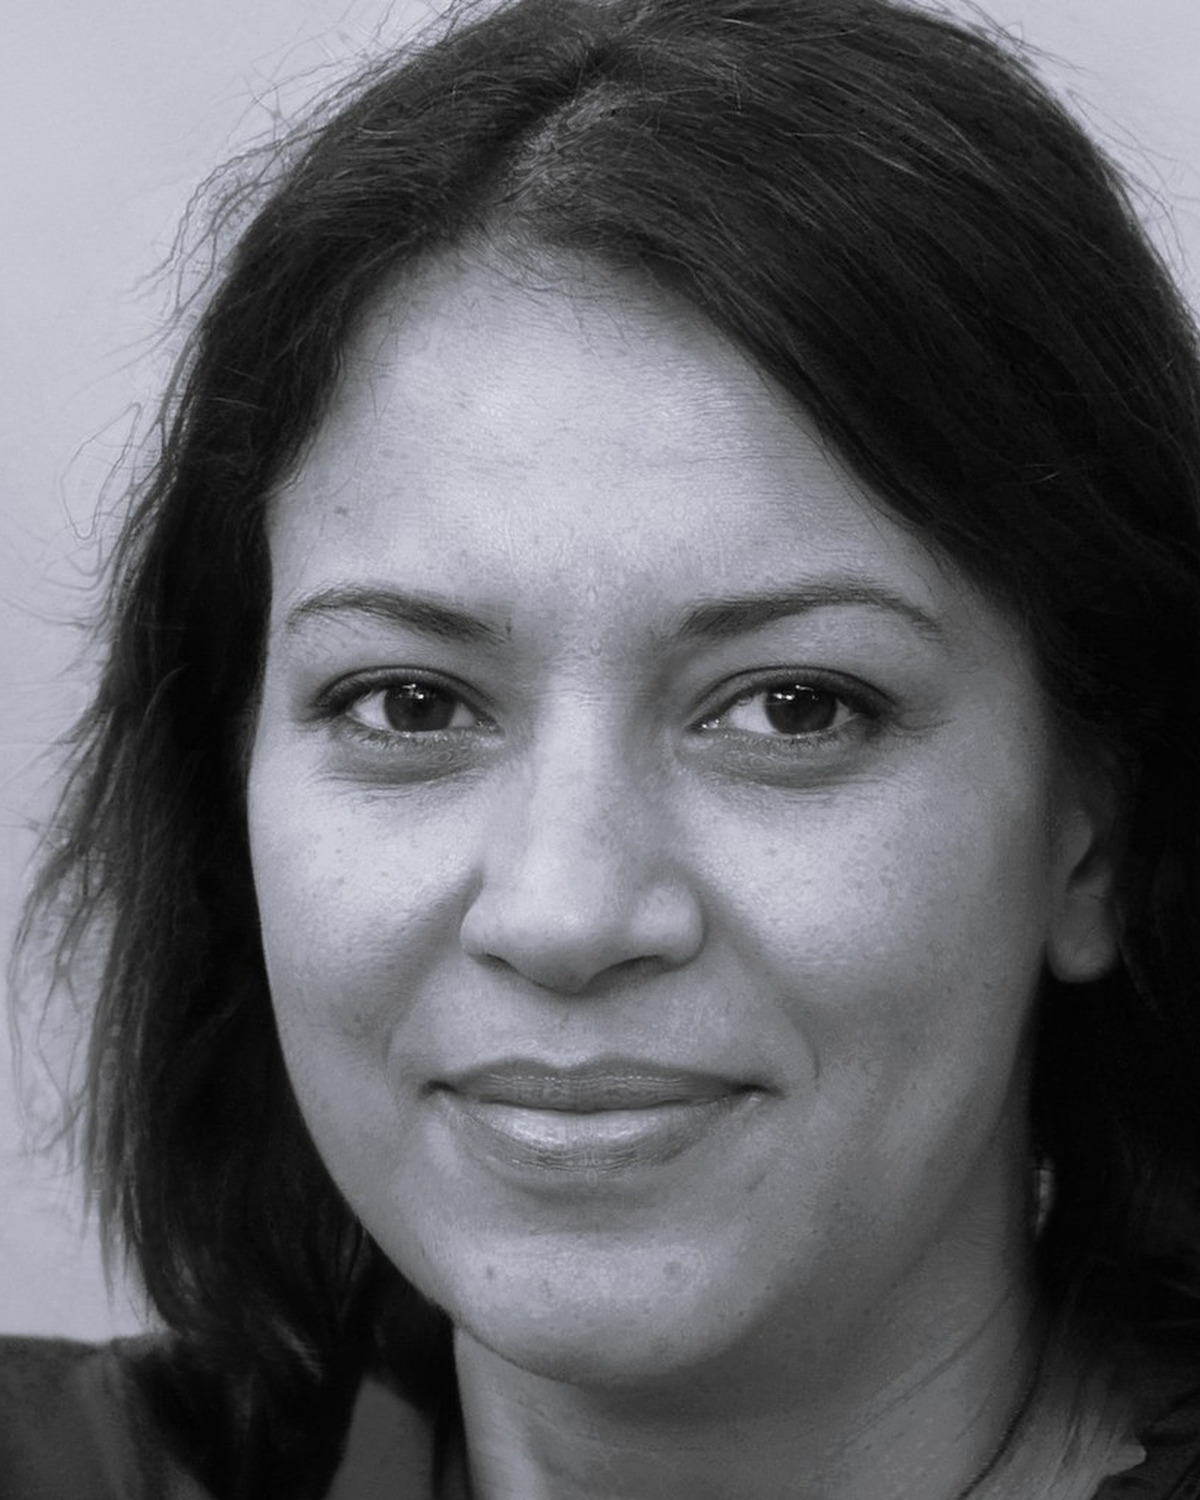
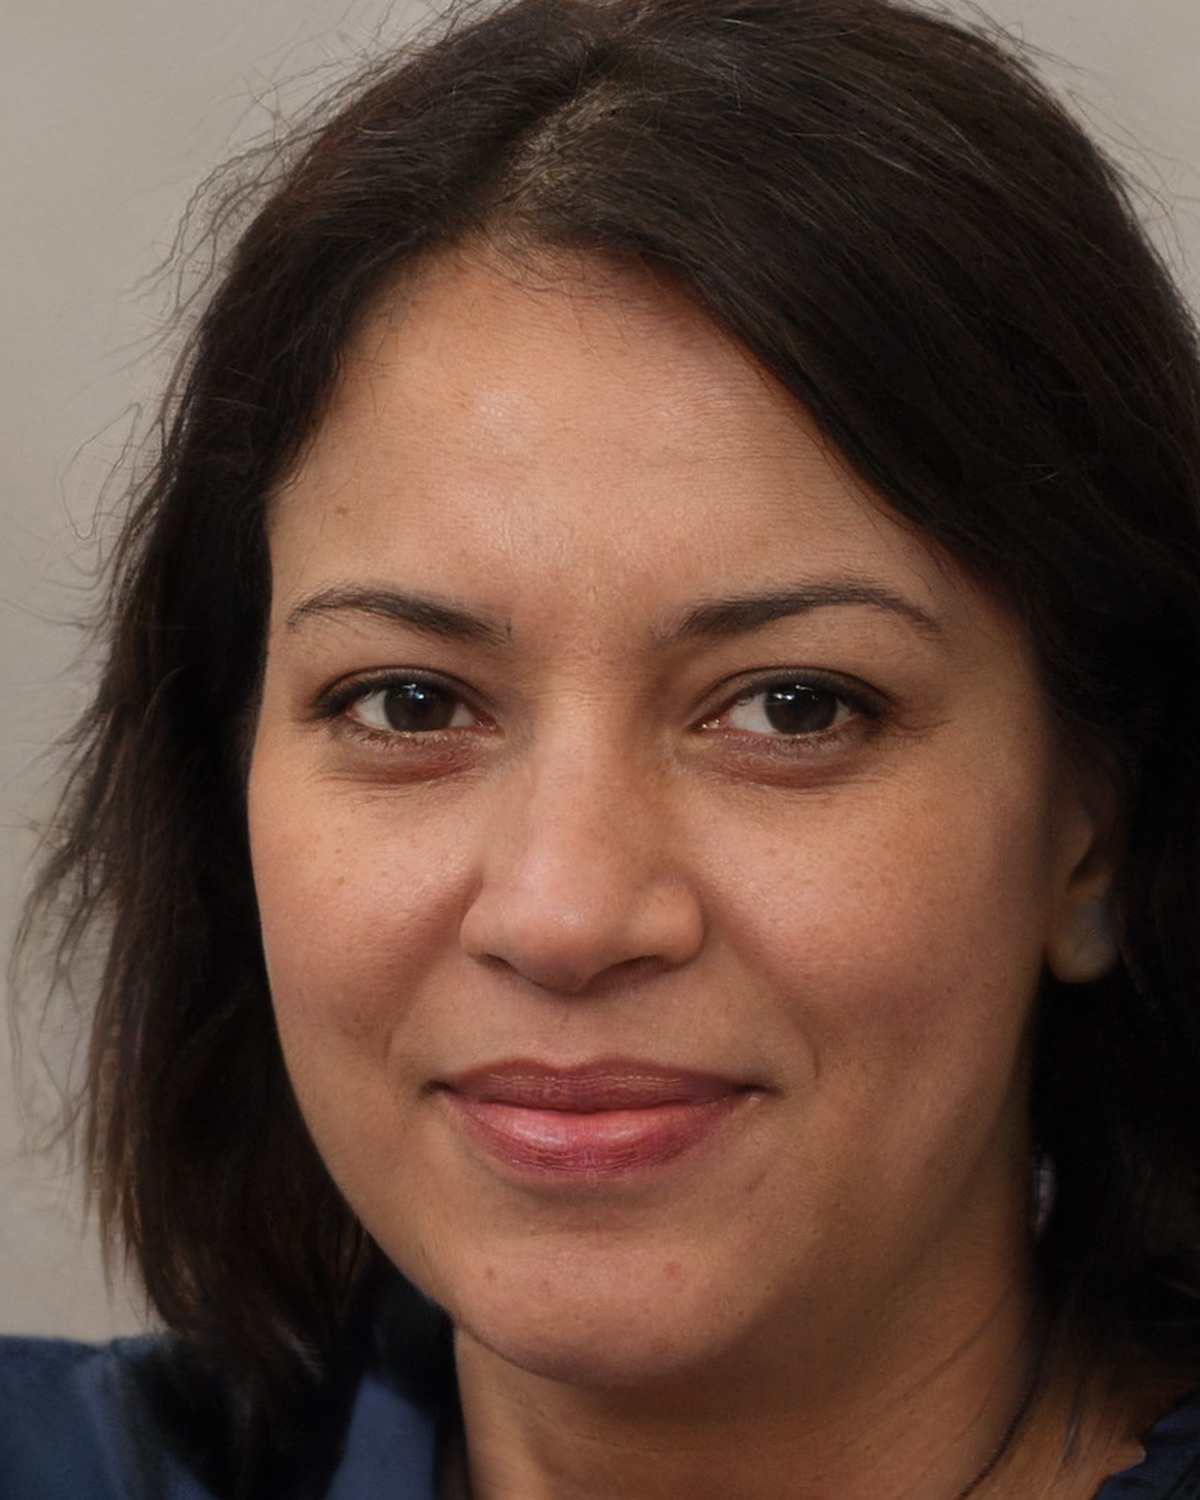
changes
Former-commit-id: f7cadb3c44accd0e72aadfa9d3585f60a9ee3c49

diff --git a/app/page.tsx b/app/page.tsx
@@ -312,13 +312,13 @@ export default async function HomePage() {
           </p>
           <div className="mt-10 grid gap-8 sm:grid-cols-2 md:grid-cols-4">
             {TRAVEL_EXPERTS.map((expert) => (
-              <div key={expert.name}>
+              <div key={expert.name} className="group">
                 <div className="relative aspect-[4/5] w-full overflow-hidden rounded-md">
                   <Image
                     src={expert.photo}
                     alt={expert.name}
                     fill
-                    className="object-cover grayscale"
+                    className="object-cover grayscale transition-all duration-500 group-hover:grayscale-0"
                   />
                 </div>
                 <p className="mt-4 text-xs uppercase tracking-wide text-paper/50">
